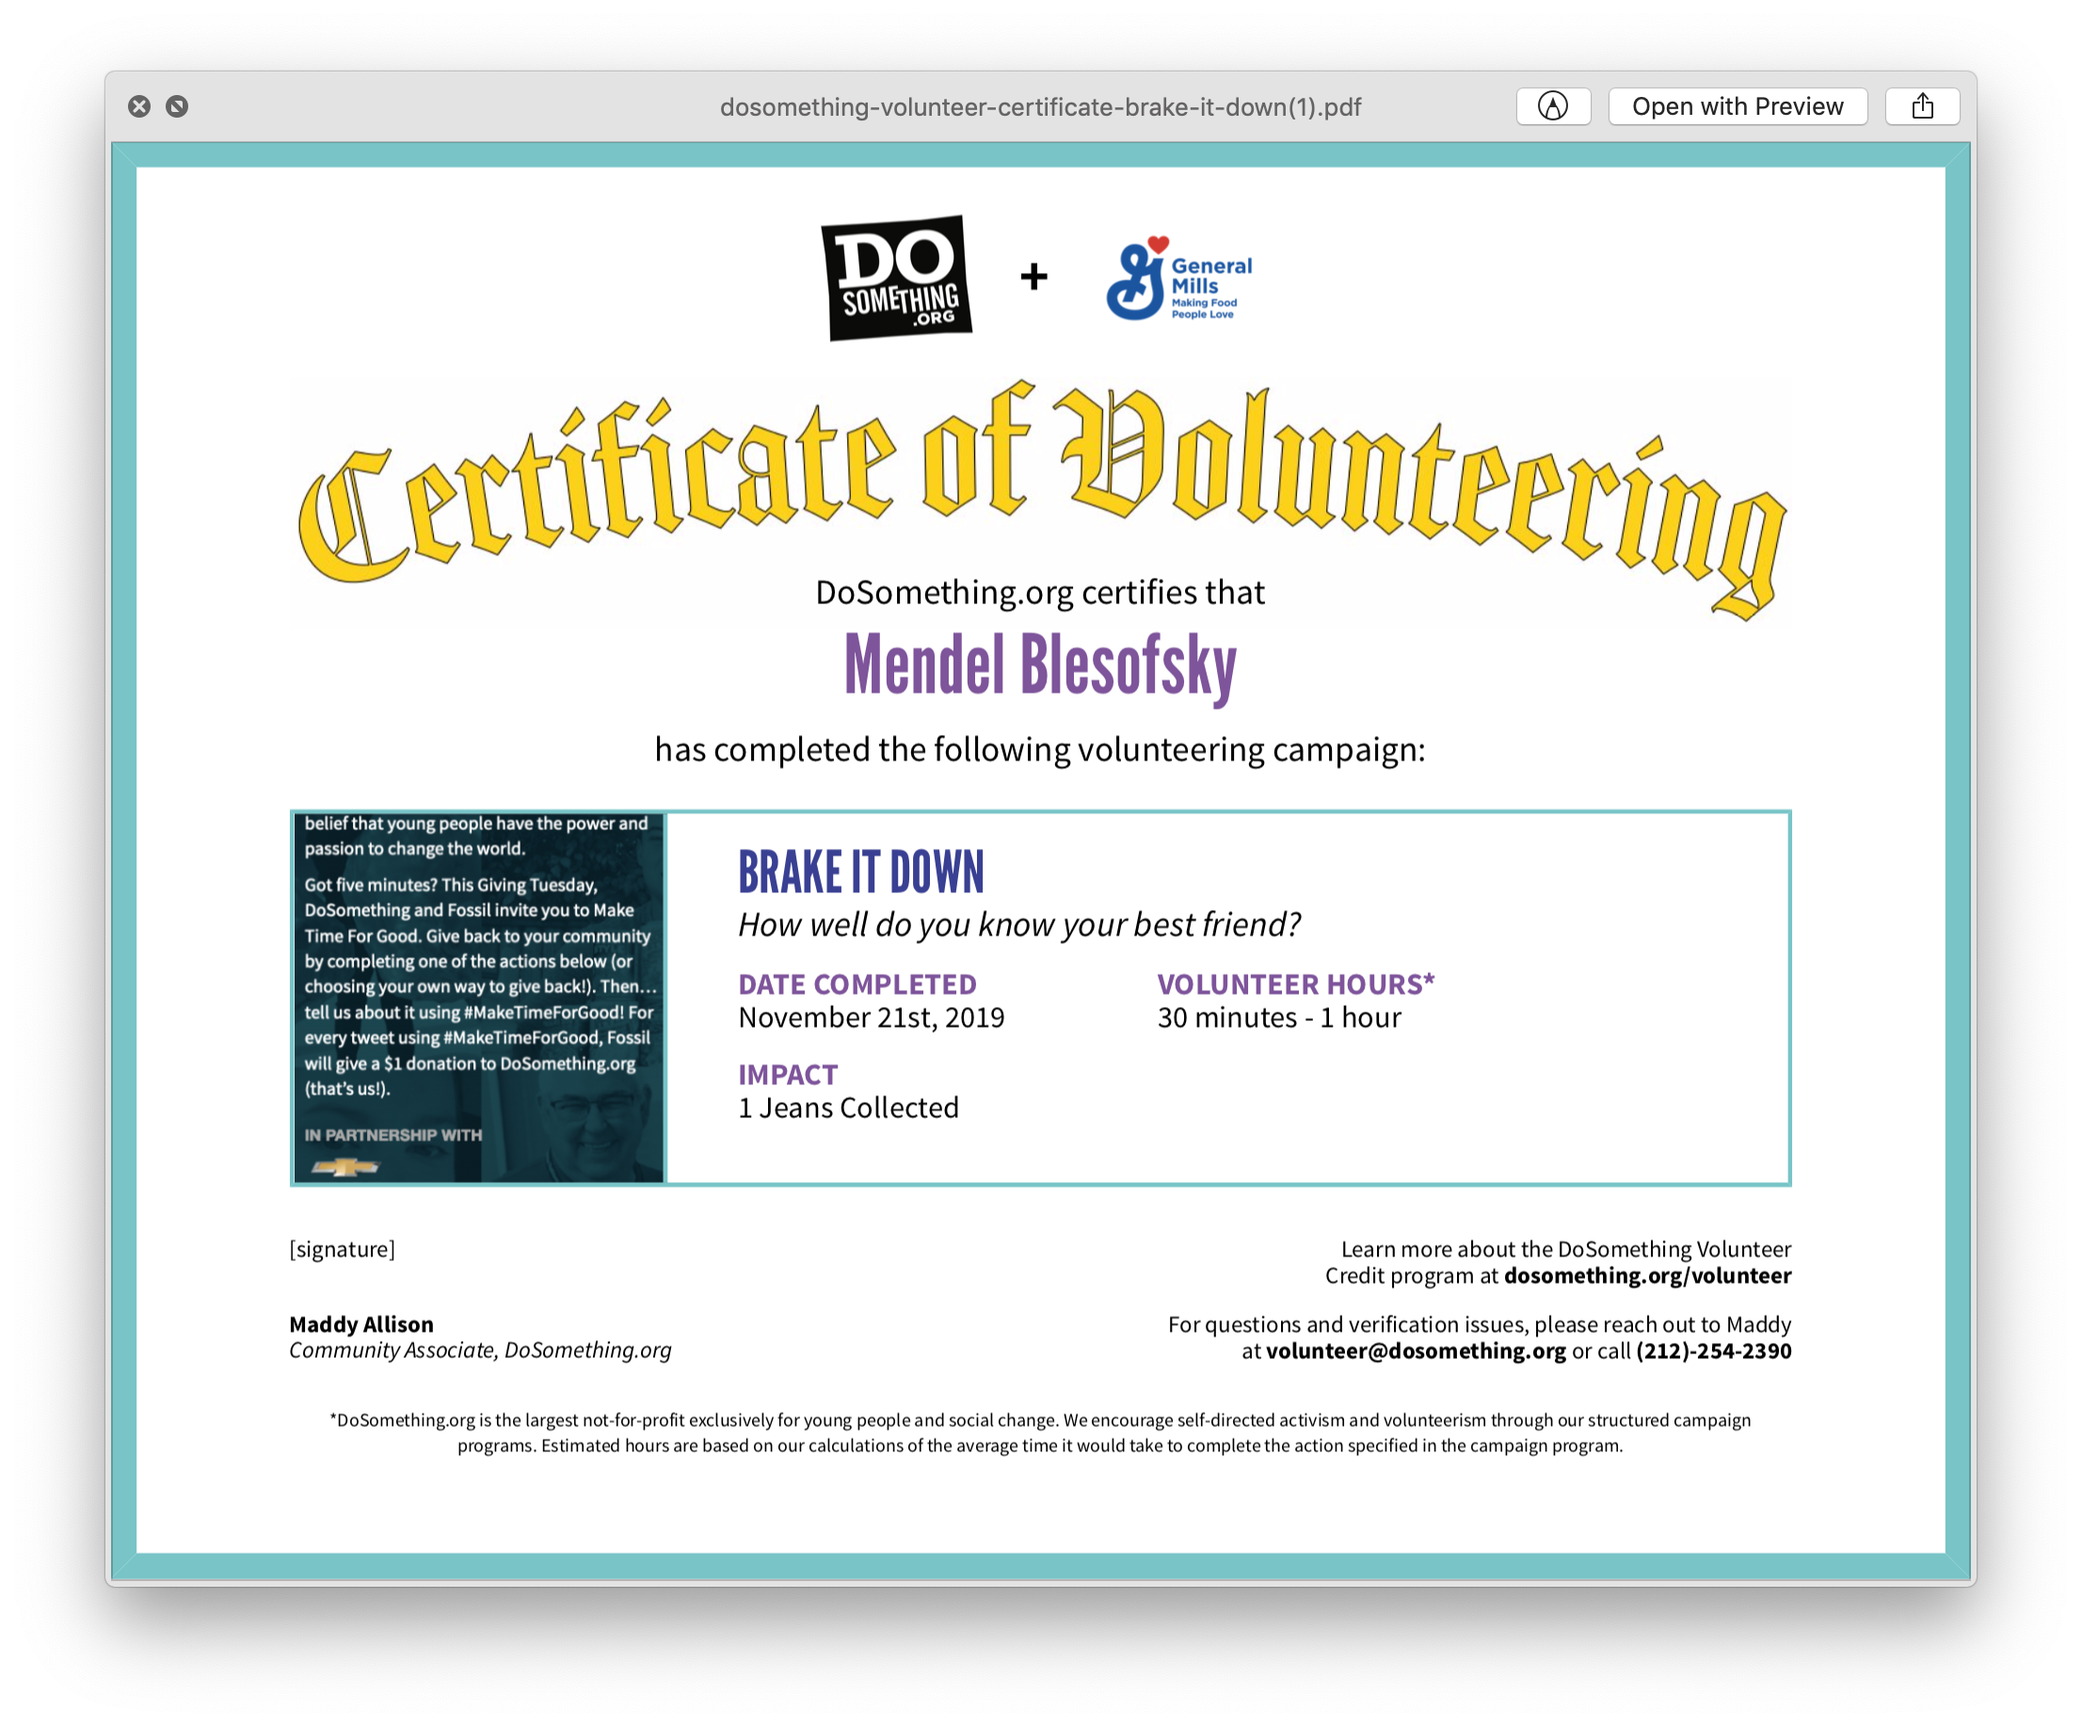
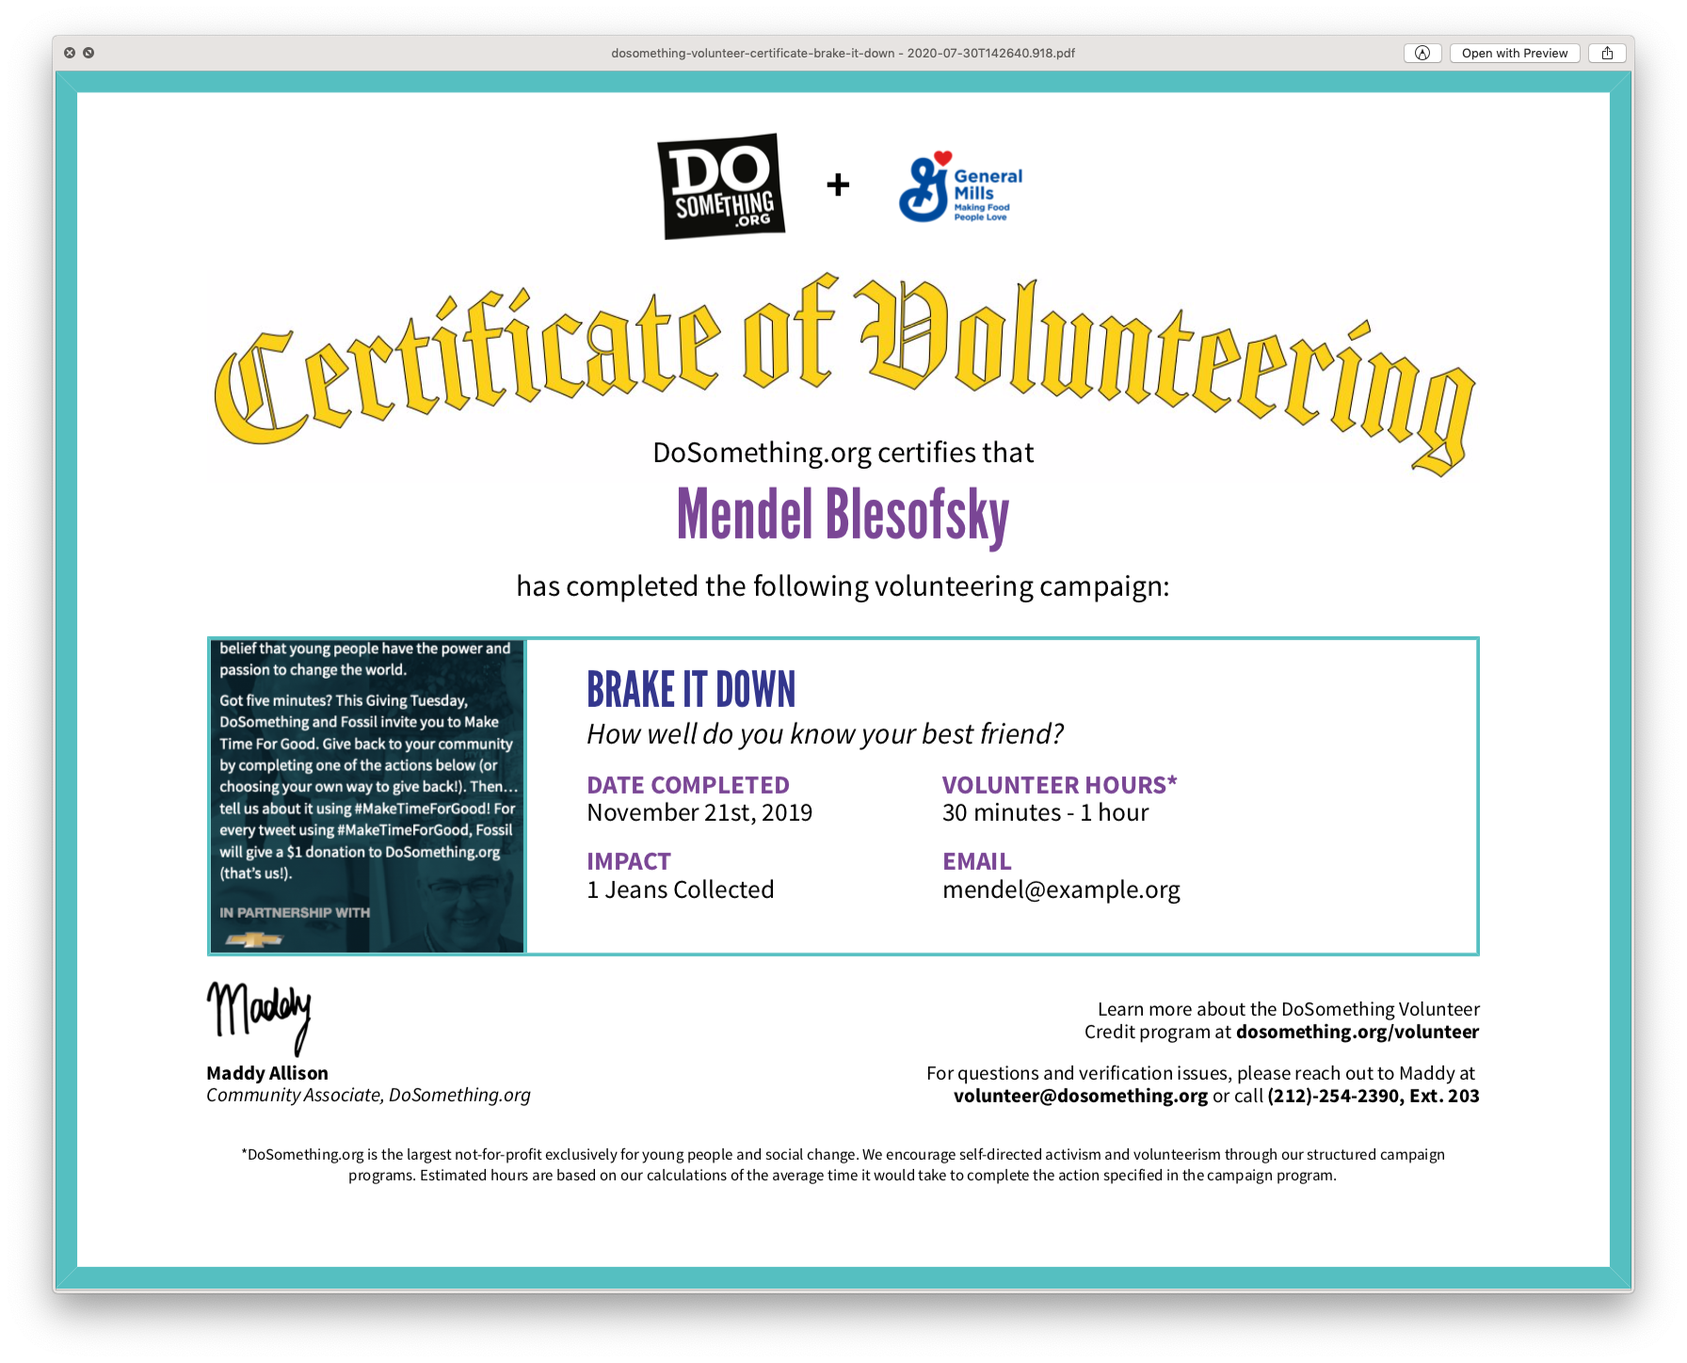
Volunteer Credits Certificate Email Section (#2307)
* Query for users email address

* Add user email section to certificate

* Manually assign width to email to prevent overflow

* Update documentation

Changed region(s): [[0.0, 0.0, 1.0, 0.9945]]

diff --git a/resources/assets/components/pages/AccountPage/Credits/CertificateTemplate.js b/resources/assets/components/pages/AccountPage/Credits/CertificateTemplate.js
@@ -47,6 +47,7 @@ export const certificatePostType = PropTypes.shape({
   user: PropTypes.shape({
     firstName: PropTypes.string.isRequired,
     lastName: PropTypes.string.isRequired,
+    email: PropTypes.string.isRequired,
   }),
 });
 
@@ -227,12 +228,20 @@ const CertificateTemplate = ({ certificatePost }) => {
                   </View>
                 </View>
 
-                {certificatePost.impactLabel ? (
-                  <View style={{ marginTop: 10 }}>
-                    <Text style={styles.postDetailsTitle}>Impact</Text>
-                    <Text>{certificatePost.impactLabel}</Text>
+                <View style={[styles.flex, { marginTop: 10 }]}>
+                  {certificatePost.impactLabel ? (
+                    <View style={{ width: '40%' }}>
+                      <Text style={styles.postDetailsTitle}>Impact</Text>
+                      <Text>{certificatePost.impactLabel}</Text>
+                    </View>
+                  ) : null}
+
+                  {/* Assigning width here to ensure that super long email addresses don't overflow the border. */}
+                  <View style={{ width: '60%' }}>
+                    <Text style={styles.postDetailsTitle}>Email</Text>
+                    <Text>{certificatePost.user.email}</Text>
                   </View>
-                ) : null}
+                </View>
               </View>
             </View>
           </View>

diff --git a/resources/assets/components/pages/AccountPage/Credits/volunteer-credits-mock-data.js b/resources/assets/components/pages/AccountPage/Credits/volunteer-credits-mock-data.js
@@ -172,6 +172,7 @@ export const mockUserResponse = {
   id: '123',
   firstName: 'Brent',
   lastName: 'Sakkoy',
+  email: 'brent.sakkoy@yahoo.gov',
 };
 
 // Mocked paginatedPost data should be parsed into the following result:

diff --git a/resources/assets/components/pages/AccountPage/Credits/VolunteerCreditsQuery.js b/resources/assets/components/pages/AccountPage/Credits/VolunteerCreditsQuery.js
@@ -57,6 +57,7 @@ export const VOLUNTEER_CREDIT_POSTS_QUERY = gql`
       id
       firstName
       lastName
+      email
     }
   }
 `;

diff --git a/docs/development/features/volunteer-credits.md b/docs/development/features/volunteer-credits.md
@@ -37,7 +37,7 @@ Posts pending review will display a grayed out 'Pending' button.
 
 The certificate will include the following data:
 
-- Members first and last name
+- Members first name, last name, and email address
 - Campaign title & CTA
 - Completed Date
 - Estimated volunteer hours
